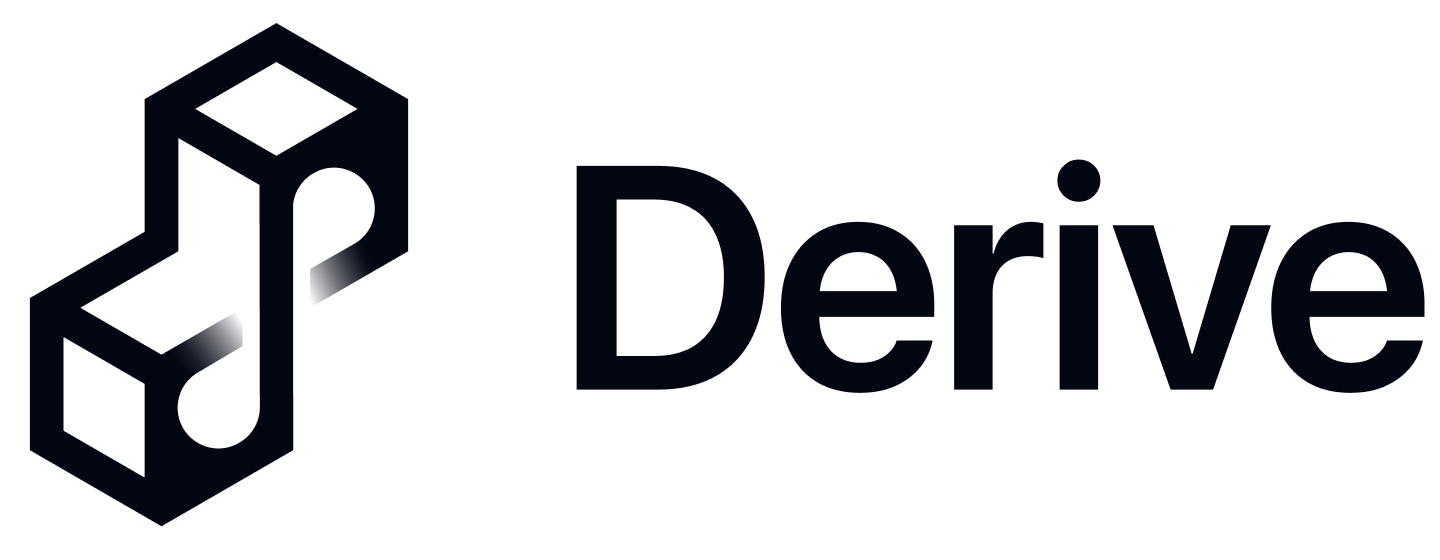
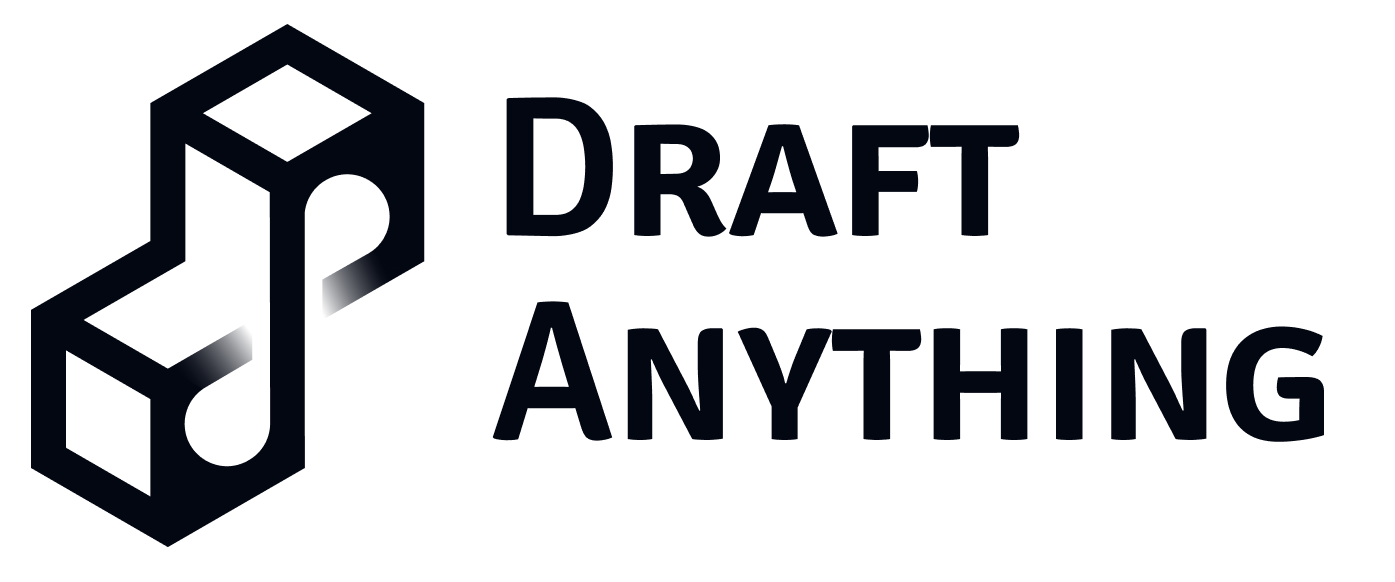
brand updates

diff --git a/components/brand/brand-logo.tsx b/components/brand/brand-logo.tsx
@@ -4,7 +4,7 @@ import { cn } from '@/lib/utils'
 import { useTheme } from 'next-themes'
 import Image from 'next/image'
 
-export interface DeriveLogoProps {
+export interface BrandLogoProps {
   variant?: 'logo' | 'wordmark' | 'icon'
   theme?: 'light' | 'dark' | 'auto'
   size?: 'sm' | 'md' | 'lg' | 'xl' | '2xl'
@@ -53,13 +53,13 @@ const getDimensions = (variant: string, size: string) => {
   }
 }
 
-export function DeriveLogo({
+export function BrandLogo({
   variant = 'logo',
   theme = 'auto',
   size = 'md',
   className,
   priority = false
-}: DeriveLogoProps) {
+}: BrandLogoProps) {
   const { resolvedTheme } = useTheme()
 
   // Determine which logo to show based on theme
@@ -90,12 +90,12 @@ export function DeriveLogo({
   const getAltText = () => {
     switch (variant) {
       case 'icon':
-        return 'Derive icon'
+        return 'Draft Anything icon'
       case 'wordmark':
-        return 'Derive wordmark'
+        return 'Draft Anything wordmark'
       case 'logo':
       default:
-        return 'Derive logo'
+        return 'Draft Anything logo'
     }
   }
 

diff --git a/app/auth/layout.tsx b/app/auth/layout.tsx
@@ -1,7 +1,7 @@
 'use client'
 
 import { AnimatedWrapper } from '@/components/auth/animated-wrapper'
-import { DeriveLogo } from '@/components/brand'
+import { BrandLogo } from '@/components/brand'
 import { AnimatedBackdrop } from '@/components/ui/animated-backdrop'
 import Link from 'next/link'
 
@@ -20,9 +20,9 @@ export default function AuthLayout({
               href="/"
               className="flex items-center space-x-3 hover:opacity-70 transition-opacity duration-200"
             >
-              <DeriveLogo variant="logo" size="md" />
+              <BrandLogo variant="logo" size="md" />
               <span className="text-base font-medium tracking-tight text-foreground/90">
-                Derive
+                Draft Anything
               </span>
             </Link>
           </div>

diff --git a/components/login-form.tsx b/components/login-form.tsx
@@ -16,7 +16,7 @@ import { cn } from '@/lib/utils/index'
 import Link from 'next/link'
 import { useRouter } from 'next/navigation'
 import { useState } from 'react'
-import { DeriveLogo } from './brand'
+import { BrandLogo } from './brand'
 
 export function LoginForm({
   className,
@@ -83,7 +83,7 @@ export function LoginForm({
       <Card className="w-full">
         <CardHeader className="text-center">
           <CardTitle className="text-2xl flex flex-col items-center justify-center gap-4">
-            <DeriveLogo variant="logo" size="2xl" />
+            <BrandLogo variant="logo" size="2xl" />
             Welcome back
           </CardTitle>
           <CardDescription>Sign in to your account</CardDescription>

diff --git a/components/sign-up-form.tsx b/components/sign-up-form.tsx
@@ -16,7 +16,7 @@ import { cn } from '@/lib/utils/index'
 import Link from 'next/link'
 import { useRouter } from 'next/navigation'
 import { useState } from 'react'
-import { DeriveLogo } from './brand'
+import { BrandLogo } from './brand'
 
 export function SignUpForm({
   className,
@@ -69,7 +69,7 @@ export function SignUpForm({
       <Card className="w-full max-w-sm">
         <CardHeader className="text-center">
           <CardTitle className="text-2xl flex flex-col items-center justify-center gap-4">
-            <DeriveLogo variant="logo" size="2xl" />
+            <BrandLogo variant="logo" size="2xl" />
             Create an account
           </CardTitle>
           <CardDescription>

diff --git a/components/ui/spinner.tsx b/components/ui/spinner.tsx
@@ -1,7 +1,7 @@
 // Based on: https://github.com/vercel/ai/blob/main/examples/next-ai-rsc/components/llm-stocks/spinner.tsx
 
 import { cn } from '@/lib/utils'
-import { DeriveLogo } from '../brand'
+import { BrandLogo } from '../brand'
 
 interface SpinnerProps extends React.SVGProps<SVGSVGElement> {}
 
@@ -23,6 +23,6 @@ export const Spinner = ({ className, ...props }: SpinnerProps) => (
 
 export const LogoSpinner = () => (
   <div className="p-4 border border-background">
-    <DeriveLogo variant="logo" size="md" />
+    <BrandLogo variant="logo" size="md" />
   </div>
 )

diff --git a/components/brand/favicon.tsx b/components/brand/favicon.tsx
@@ -1,7 +1,7 @@
 'use client'
 
-import Image from 'next/image'
 import { cn } from '@/lib/utils'
+import Image from 'next/image'
 
 export interface FaviconProps {
   size?: number
@@ -17,7 +17,7 @@ export function Favicon({
   return (
     <Image
       src="/brand/favicon.png"
-      alt="Derive favicon"
+      alt="Draft Anything favicon"
       width={size}
       height={size}
       className={cn('object-contain', className)}

diff --git a/app/layout.tsx b/app/layout.tsx
@@ -11,11 +11,11 @@ const fontSans = FontSans({
   variable: '--font-sans'
 })
 
-const title = 'Derive'
-const description = 'Derive is an AI-First Learning Platform'
+const title = 'Draft Anything'
+const description = 'Draft anything with friends.'
 
 export const metadata: Metadata = {
-  metadataBase: new URL('https://derive.to'),
+  metadataBase: new URL('https://draftanything.io'),
   title,
   description,
   icons: {

diff --git a/components/brand/index.ts b/components/brand/index.ts
@@ -1,7 +1,7 @@
-export { DeriveLogo } from './derive-logo'
+export { BrandLogo } from './brand-logo'
 export { Favicon } from './favicon'
 export { Logo } from './logo' // Keep the original SVG logo for backwards compatibility
 
-export type { DeriveLogoProps } from './derive-logo'
+export type { BrandLogoProps } from './brand-logo'
 export type { FaviconProps } from './favicon'
 export type { LogoProps } from './logo'
